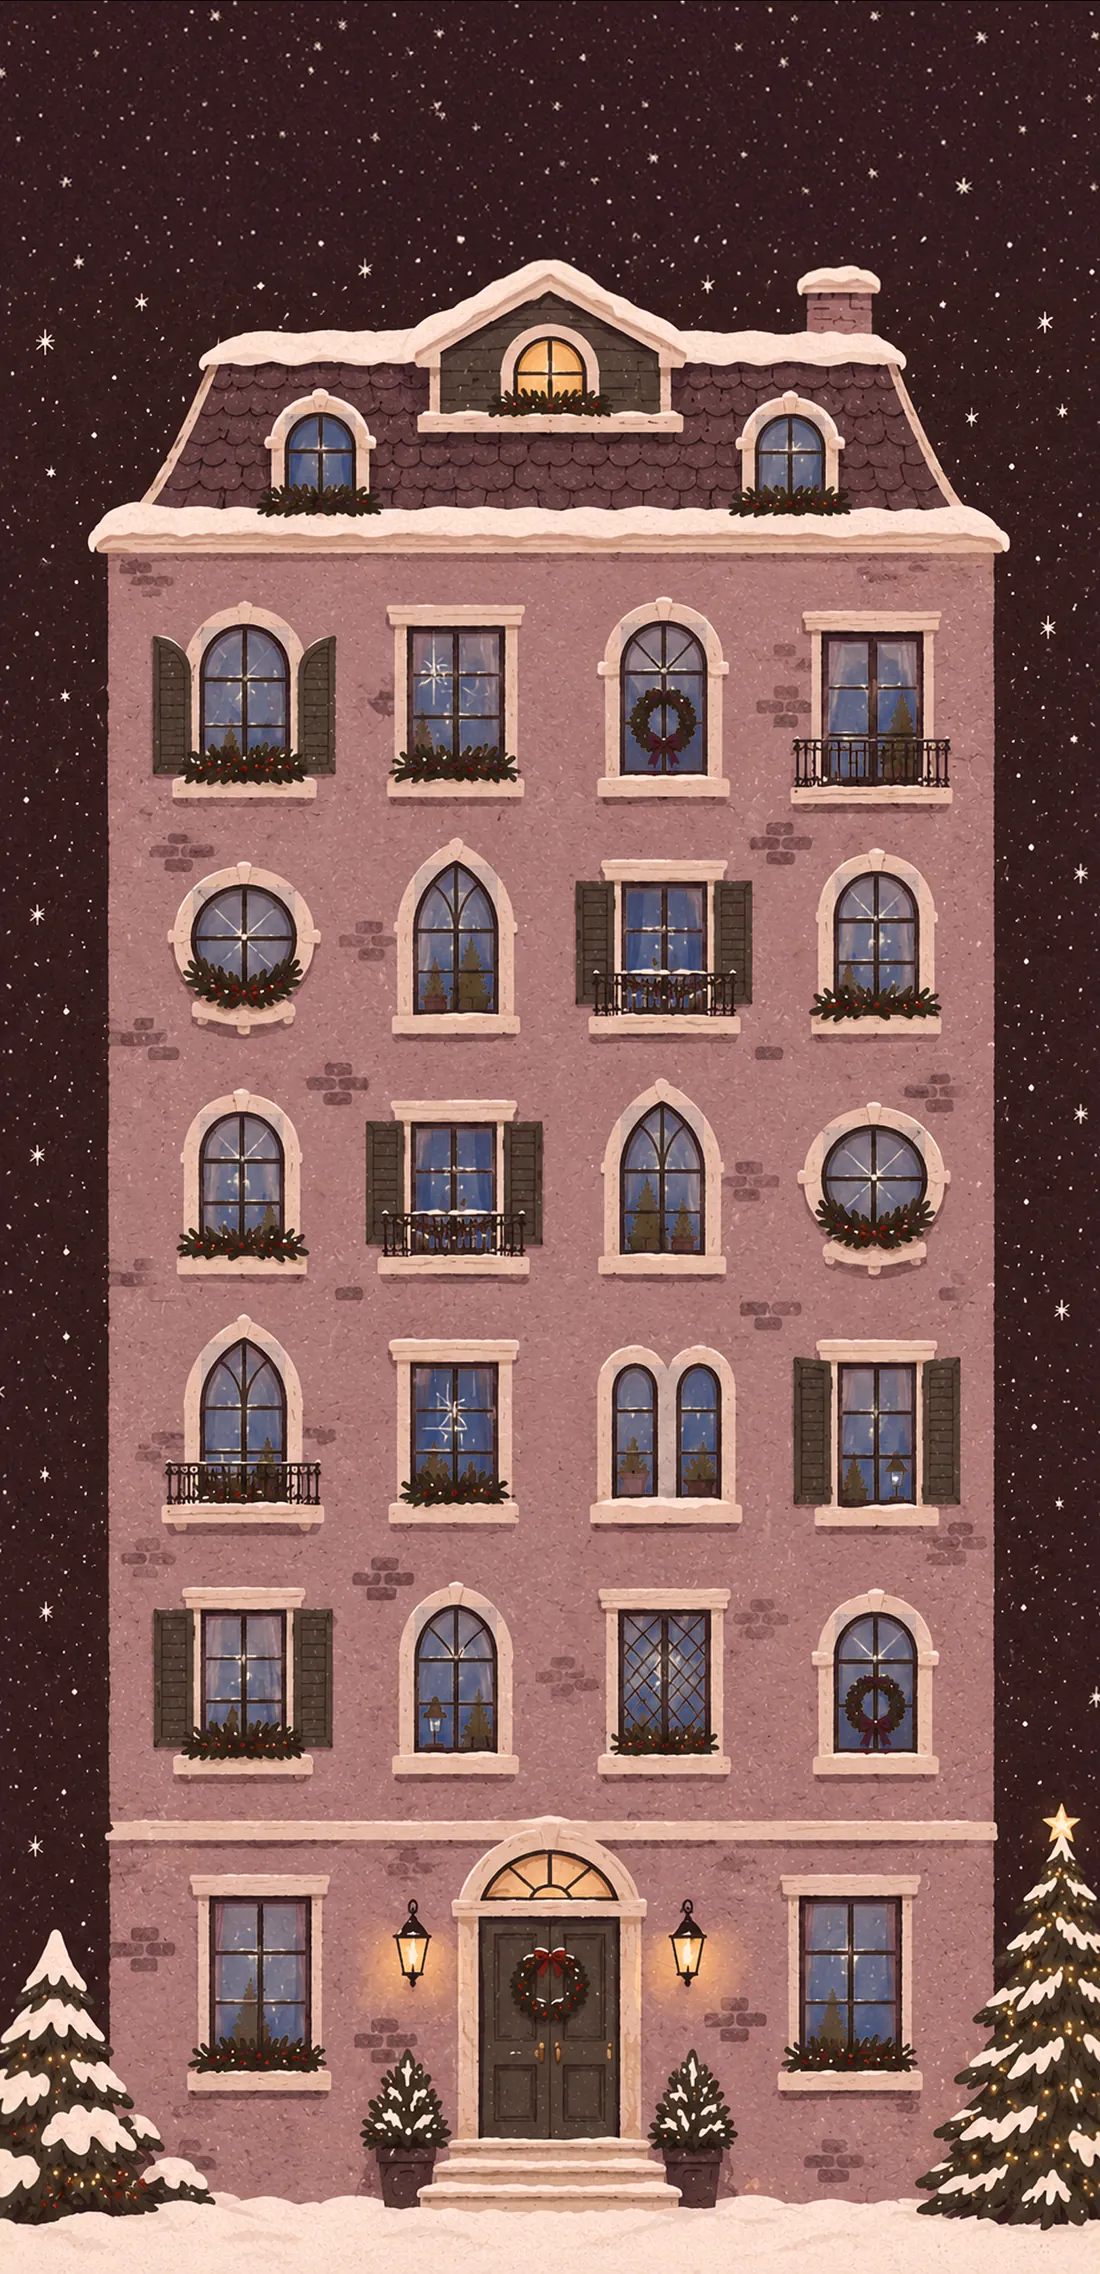
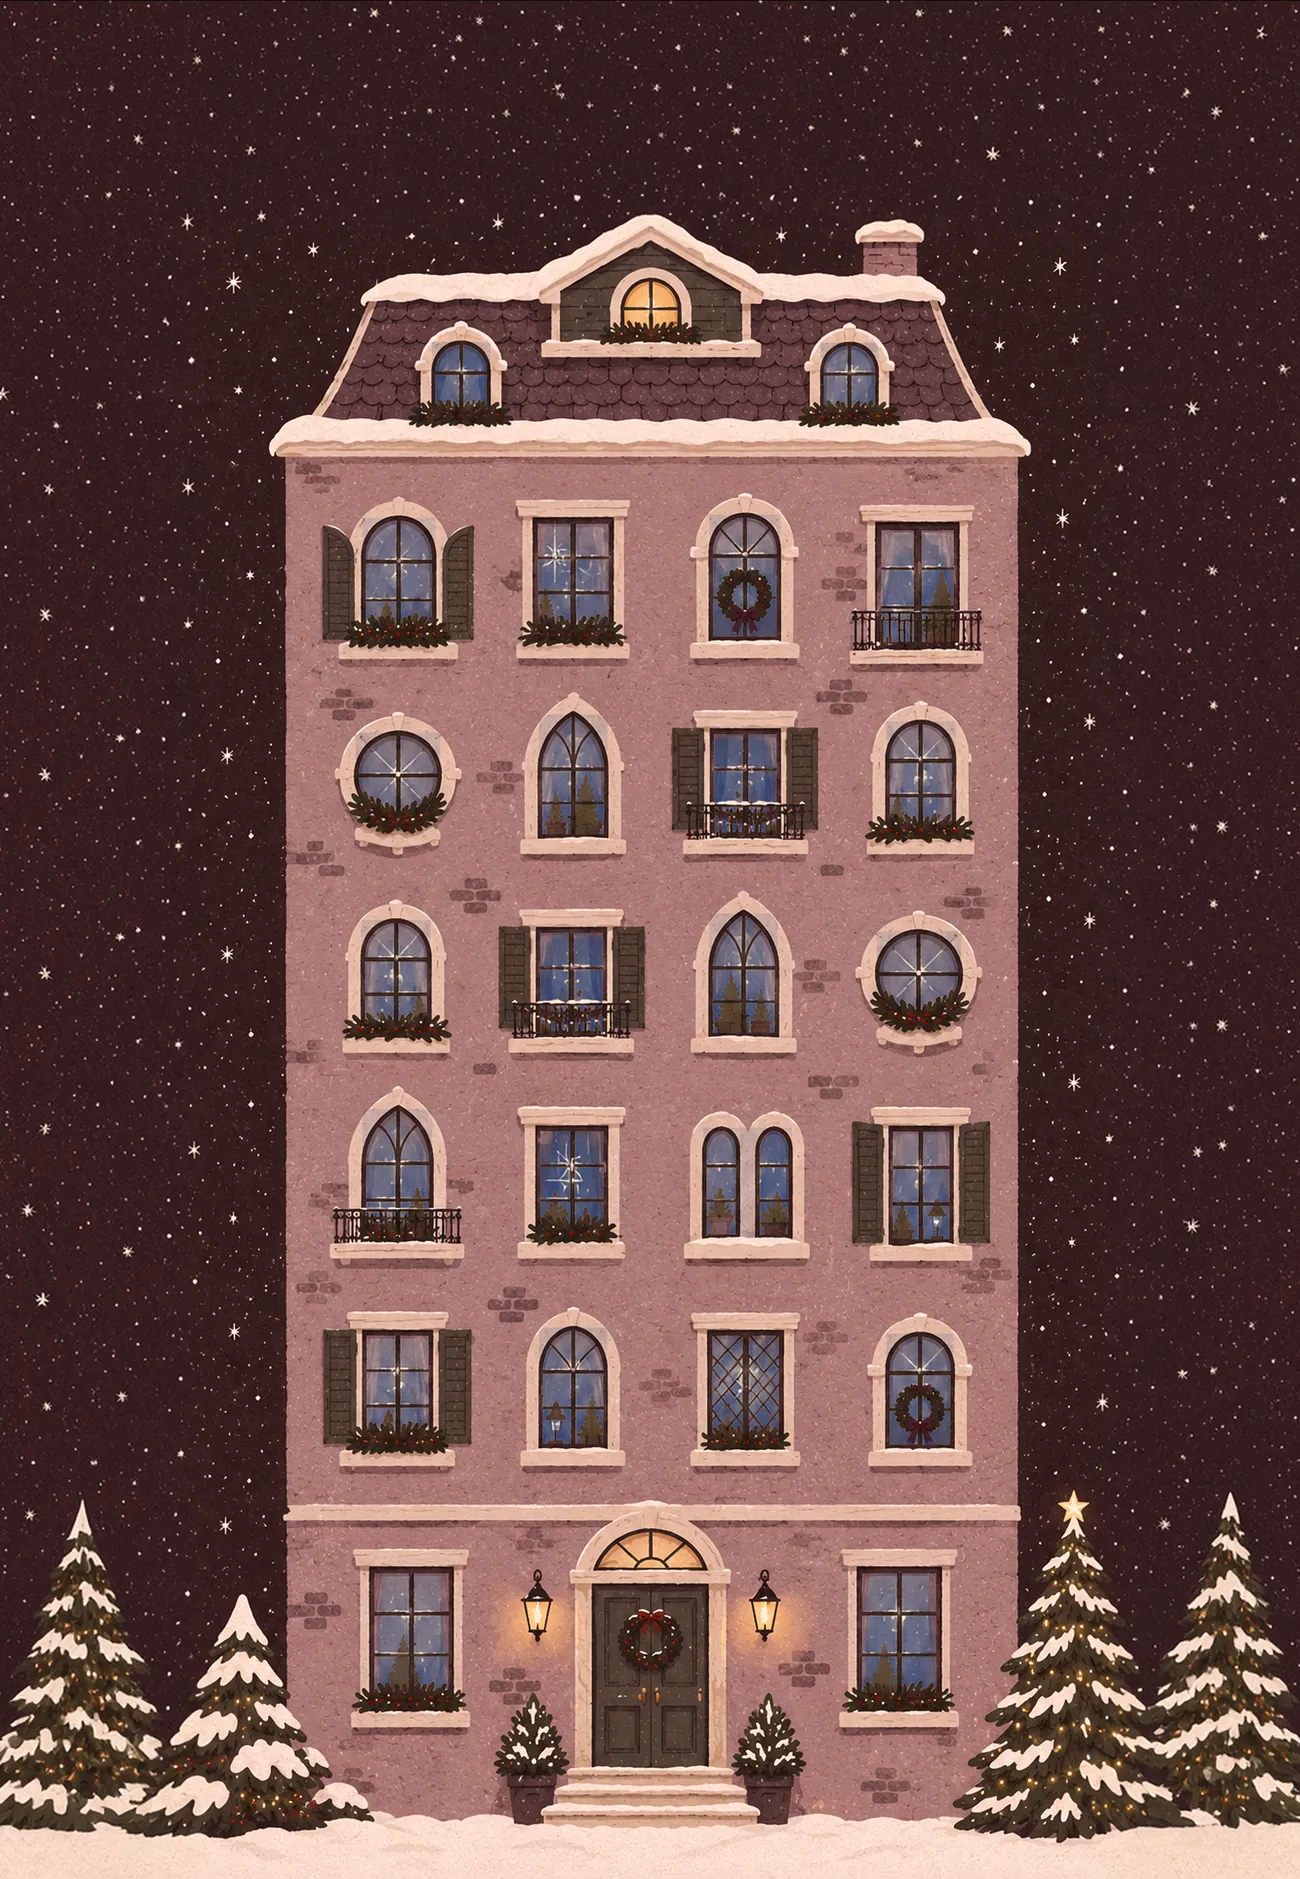
Advent: number cells from the roof, full-width scene, painted sky background
- Cells 01-02 are the dormers, 03-22 the facade, 23-24 the ground floor
- Illustration no longer cropped, so the trees are whole; on phones the
  house fills the width and the trees peek in from the edges
- Page background is a seamless tile of the painted starry sky

diff --git a/advent/css/advent.css b/advent/css/advent.css
@@ -26,7 +26,7 @@ html.is-modal-open body { overflow: hidden; }
   max-width: 560px;
   margin: 0 auto;
   padding: max(18px, env(safe-area-inset-top)) 16px 12px;
-  overflow-x: clip;
+  overflow-x: visible; /* будинок на всю ширину обрізає сам .house */
   display: flex;
   flex-direction: column;
   align-items: center;
@@ -36,6 +36,8 @@ html.is-modal-open body { overflow: hidden; }
 /* ---------- Шапка ---------- */
 
 .adv-head {
+  position: relative;
+  z-index: 2; /* поверх неба з малюнка, на яке заходить будинок */
   width: 100%;
   display: flex;
   flex-direction: column;
@@ -132,27 +134,31 @@ html.is-modal-open body { overflow: hidden; }
 
 /* Небо сторінки — того ж сливового кольору, що й на малюнку */
 body.advent-page {
-  background-color: #361d1e;  /* = небо на малюнку будинку (54, 29, 30) */
-  background-image: none;
-  background-attachment: fixed;
+  /* небо з ілюстрації (безшовна текстура), у тому ж масштабі, що й будинок */
+  background: #361d1e url("../img/sky.webp?v=2026112802") repeat 50% 0 / min(61.1vw, 428px);
 }
 .advent-page .aurora { display: none; }
 
 .house {
   position: relative;
-  width: calc(100% + 32px);
-  max-width: 640px;
-  margin: 14px -16px 0;
+  z-index: 1;
+  width: 100vw;
+  /* угорі малюнка — порожнє небо; підтягуємо будинок ближче до заголовка */
+  margin: calc(min(157vw, 1100px) * -0.08) calc(50% - 50vw) 0;
+  overflow: hidden;
 }
 
 .house-art {
   position: relative;
-  aspect-ratio: 1100 / 2274;
+  left: 50%;
+  width: min(157vw, 1100px);   /* на телефоні будинок на всю ширину, ялинки визирають з країв */
+  transform: translateX(-50%);
+  aspect-ratio: 1300 / 1879;
   /* м'які краї, щоб малюнок розчинявся в небі сторінки */
-  -webkit-mask-image: linear-gradient(90deg, transparent 0, #000 5%, #000 95%, transparent 100%),
+  -webkit-mask-image: linear-gradient(90deg, transparent 0, #000 3%, #000 97%, transparent 100%),
     linear-gradient(180deg, transparent 0, #000 4%, #000 97%, transparent 100%);
   -webkit-mask-composite: source-in;
-  mask-image: linear-gradient(90deg, transparent 0, #000 5%, #000 95%, transparent 100%),
+  mask-image: linear-gradient(90deg, transparent 0, #000 3%, #000 97%, transparent 100%),
     linear-gradient(180deg, transparent 0, #000 4%, #000 97%, transparent 100%);
   mask-composite: intersect;
 }
@@ -193,7 +199,7 @@ body.advent-page {
 /* Світло у вікні — шматок «світлої» версії малюнка точно по склу */
 .win-light {
   position: absolute;
-  background-image: url("../img/house-lit.webp?v=2026112801");
+  background-image: url("../img/house-lit.webp?v=2026112802");
   background-repeat: no-repeat;
   opacity: 0;
   transition: opacity 0.9s ease, filter 0.6s;

diff --git a/advent/js/advent.js b/advent/js/advent.js
@@ -23,15 +23,15 @@
     video: 'Запис для тебе', prompts: 'Добірка промптів', wallpaper: 'Святкові заставки', gift: 'Подарунок'
   };
   // Скло вікон на ілюстрації (advent/img/house-*.webp), у % від картинки: [x, y, ширина, висота].
-  // Порядок = номери комірок: 5 поверхів фасаду (01–20), перший поверх (21–22), мансарда (23–24).
+  // Порядок = номери комірок: мансарда (01–02), 5 поверхів фасаду (03–22), перший поверх (23–24).
   // Генерує tools/build_house.py — після зміни малюнка перезапусти його й встав сюди новий масив.
   var WINDOWS = [
-    [18.28, 27.56, 8.01, 5.77], [37.22, 27.68, 8.54, 6.09], [56.42, 27.4, 7.81, 6.66], [74.97, 28.07, 8.68, 6.31],
-    [17.55, 38.99, 9.27, 4.26], [37.68, 38.03, 7.55, 6.54], [56.56, 38.9, 7.62, 5.58], [75.89, 38.39, 7.62, 5.64],
-    [18.15, 48.96, 7.62, 5.64], [37.48, 49.47, 7.62, 5.58], [56.42, 48.61, 7.55, 6.54], [74.83, 49.57, 9.27, 4.26],
-    [18.28, 59.02, 7.68, 6.57], [37.42, 60.04, 7.75, 5.45], [55.76, 60.01, 9.74, 5.86], [76.23, 60.04, 7.02, 6.09],
-    [18.41, 70.94, 7.48, 5.74], [37.68, 70.65, 7.48, 6.38], [56.36, 70.94, 8.08, 5.64], [75.89, 70.97, 7.42, 6.09],
-    [19.21, 83.56, 8.87, 6.7], [72.85, 83.56, 8.94, 6.66], [25.89, 18.2, 6.42, 4.17], [68.68, 18.23, 6.36, 3.84]
+    [33.21, 18.2, 4.49, 4.17], [63.13, 18.23, 4.45, 3.84], [27.88, 27.56, 5.6, 5.77], [41.13, 27.68, 5.97, 6.09],
+    [54.56, 27.4, 5.47, 6.66], [67.53, 28.07, 6.07, 6.31], [27.37, 38.99, 6.48, 4.26], [41.45, 38.03, 5.28, 6.54],
+    [54.65, 38.9, 5.33, 5.58], [68.18, 38.39, 5.33, 5.64], [27.79, 48.96, 5.33, 5.64], [41.32, 49.47, 5.33, 5.58],
+    [54.56, 48.61, 5.28, 6.54], [67.44, 49.57, 6.48, 4.26], [27.88, 59.02, 5.37, 6.57], [41.27, 60.04, 5.42, 5.45],
+    [54.1, 60.01, 6.81, 5.86], [68.41, 60.04, 4.91, 6.09], [27.98, 70.94, 5.23, 5.74], [41.45, 70.65, 5.23, 6.38],
+    [54.52, 70.94, 5.65, 5.64], [68.18, 70.97, 5.19, 6.09], [28.53, 83.56, 6.21, 6.7], [66.05, 83.56, 6.25, 6.66]
   ];
   var HIT_X = 0.45, HIT_Y = 0.38, HIT_W = 1.9, HIT_H = 1.62; // зона натискання навколо скла
 

diff --git a/advent/index.html b/advent/index.html
@@ -22,9 +22,9 @@
   <link href="https://fonts.googleapis.com/css2?family=Manrope:wght@400;500;600;700;800&family=Roboto+Slab:wght@600;700;800&display=swap" rel="stylesheet">
 
   <!-- ?v=… — версія файлів: змінюй при кожному оновленні CSS/JS -->
-  <link rel="stylesheet" href="../css/style.css?v=2026112801">
-  <link rel="stylesheet" href="css/advent.css?v=2026112801">
-  <link rel="preload" href="img/house-lit.webp?v=2026112801" as="image" type="image/webp">
+  <link rel="stylesheet" href="../css/style.css?v=2026112802">
+  <link rel="stylesheet" href="css/advent.css?v=2026112802">
+  <link rel="preload" href="img/house-lit.webp?v=2026112802" as="image" type="image/webp">
 </head>
 <body class="advent-page">
   <div class="aurora" aria-hidden="true"></div>
@@ -47,9 +47,9 @@
     <!-- Будинок: кожне вікно — комірка. Ілюстрацію збирає tools/build_house.py -->
     <section class="house" aria-label="Комірки адвент-календаря">
       <div class="house-art">
-        <img class="house-img" src="img/house-dark.webp?v=2026112801" width="1100" height="2274" alt="" decoding="async" fetchpriority="high">
+        <img class="house-img" src="img/house-dark.webp?v=2026112802" width="1300" height="1879" alt="" decoding="async" fetchpriority="high">
         <ol class="windows" id="windows"></ol>
-        <a class="door" href="../" style="left:43.64%;top:81.22%;width:12.65%;height:11.79%">
+        <a class="door" href="../" style="left:45.62%;top:81.22%;width:8.85%;height:11.79%">
           <span class="door-tag">Передбачення 2027 ✨</span>
         </a>
       </div>
@@ -88,8 +88,8 @@
 
   <div class="toast" id="toast" role="status" aria-live="polite"></div>
 
-  <script src="../js/effects.js?v=2026112801" defer></script>
-  <script src="js/richtext.js?v=2026112801" defer></script>
-  <script src="js/advent.js?v=2026112801" defer></script>
+  <script src="../js/effects.js?v=2026112802" defer></script>
+  <script src="js/richtext.js?v=2026112802" defer></script>
+  <script src="js/advent.js?v=2026112802" defer></script>
 </body>
 </html>

diff --git a/tools/build_house.py b/tools/build_house.py
@@ -9,6 +9,7 @@
   3. Знаходить скло вікон і робить дві версії:
        advent/img/house-dark.webp — скло комірок «нічне» (комірка ще зачинена)
        advent/img/house-lit.webp  — усі вікна світяться (як в оригіналі)
+       advent/img/sky.webp        — безшовна текстура зоряного неба для фону сторінки
   4. Друкує координати вікон (у відсотках) для advent/js/advent.js → WINDOWS.
 Вихідний PNG у репозиторій не комітимо (≈10 МБ).
 """
@@ -21,10 +22,10 @@ import numpy as np
 from PIL import Image
 from scipy import ndimage
 
-OUT_W = 1100              # ширина готової картинки, px
+OUT_W = 1300              # ширина готової картинки, px
 BAND = (1125, 1455)       # поверх, який дублюємо (y від–до в оригіналі)
 MIRROR_AXIS = 1097        # вісь симетрії фасаду в оригіналі, px
-CROP_X = (330, 1840)      # що лишаємо по ширині (після вставки поверху)
+CROP_X = (4, 2163)        # уся ширина (ялинки цілі), без крайніх пікселів із прозорістю
 EDGE_KEEP = (515, 1660)   # смужки біля стін фасаду беремо з оригіналу (x до/після)
 
 
@@ -103,7 +104,7 @@ def classify(boxes):
     facade = [b for r in rows if len(r) == 4 for b in r]
     ground = [b for r in rows if len(r) == 2 for b in r]
     roof = sorted(roof, key=lambda b: b[0])
-    cells = facade + ground + [roof[0], roof[-1]]
+    cells = [roof[0], roof[-1]] + facade + ground   # нумерація з даху
     decor = [roof[1]] if len(roof) == 3 else []
     decor += small
     return cells, decor, rows
@@ -153,6 +154,17 @@ def main():
     Image.fromarray(lit[..., :3]).resize(size, Image.LANCZOS).save(out / 'house-lit.webp', quality=80, method=6)
     Image.fromarray(dark[..., :3]).resize(size, Image.LANCZOS).save(out / 'house-dark.webp', quality=80, method=6)
 
+    # фон сторінки: шматок неба над дахом, віддзеркалений 2×2 — шви не видно
+    tile = Image.fromarray(lit[20:440, 20:440, :3])
+    t = tile.size[0]
+    sky = Image.new('RGB', (t * 2, t * 2))
+    sky.paste(tile, (0, 0))
+    sky.paste(tile.transpose(Image.FLIP_LEFT_RIGHT), (t, 0))
+    sky.paste(tile.transpose(Image.FLIP_TOP_BOTTOM), (0, t))
+    sky.paste(tile.transpose(Image.ROTATE_180), (t, t))
+    sky = sky.resize((round(t * 2 * scale), round(t * 2 * scale)), Image.LANCZOS)
+    sky.save(out / 'sky.webp', quality=78, method=6)
+
     # двері: під вікном-віялом над ними (найширший «дрібний» блок на першому поверсі)
     fan = max((b for b in decor if b[1] > H * 0.7), key=lambda b: b[2] - b[0])
     door = [fan[0] - 10, fan[1] - 10, fan[2] + 10, min(H, fan[3] + int((fan[2] - fan[0]) * 1.75))]
@@ -163,7 +175,8 @@ def main():
 
     data = {'ratio': round(W / H, 4), 'windows': [pct(b) for b in regions], 'door': pct(door)}
     print(json.dumps(data))
-    for f in ('house-lit.webp', 'house-dark.webp'):
+    print('size', size, 'sky', sky.size)
+    for f in ('house-lit.webp', 'house-dark.webp', 'sky.webp'):
         print(f, (out / f).stat().st_size // 1024, 'KB')
 
 
